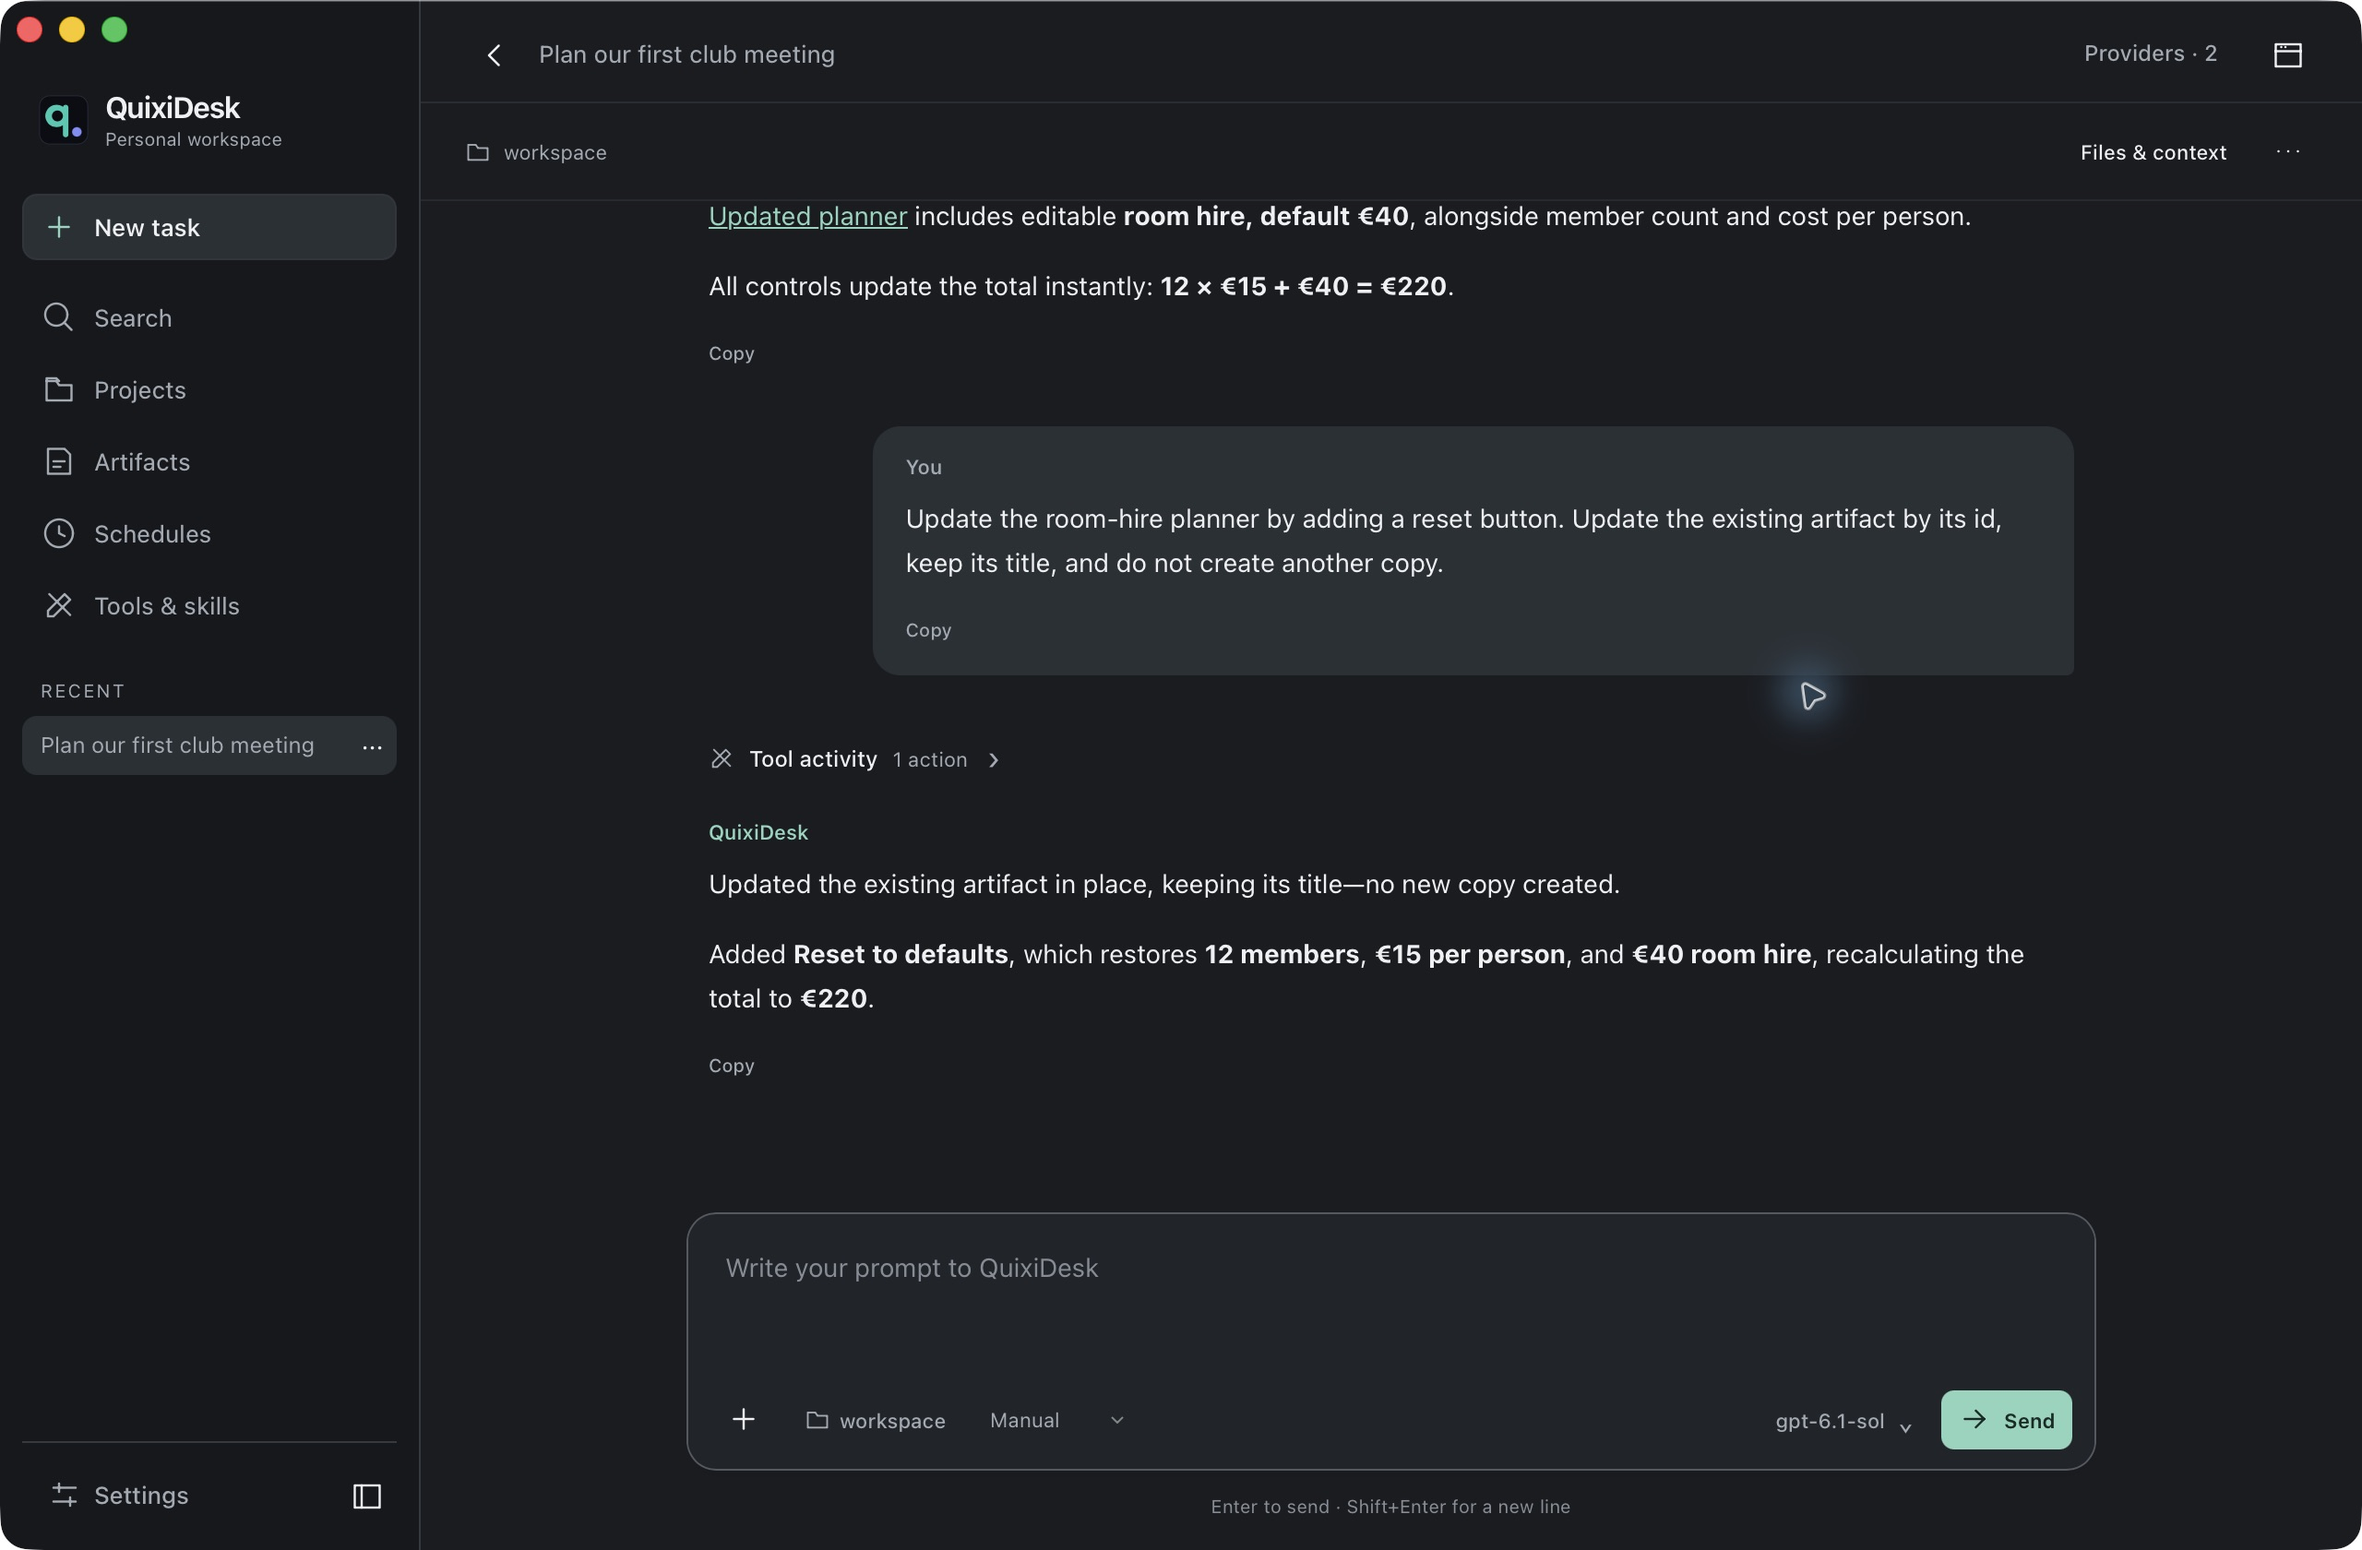
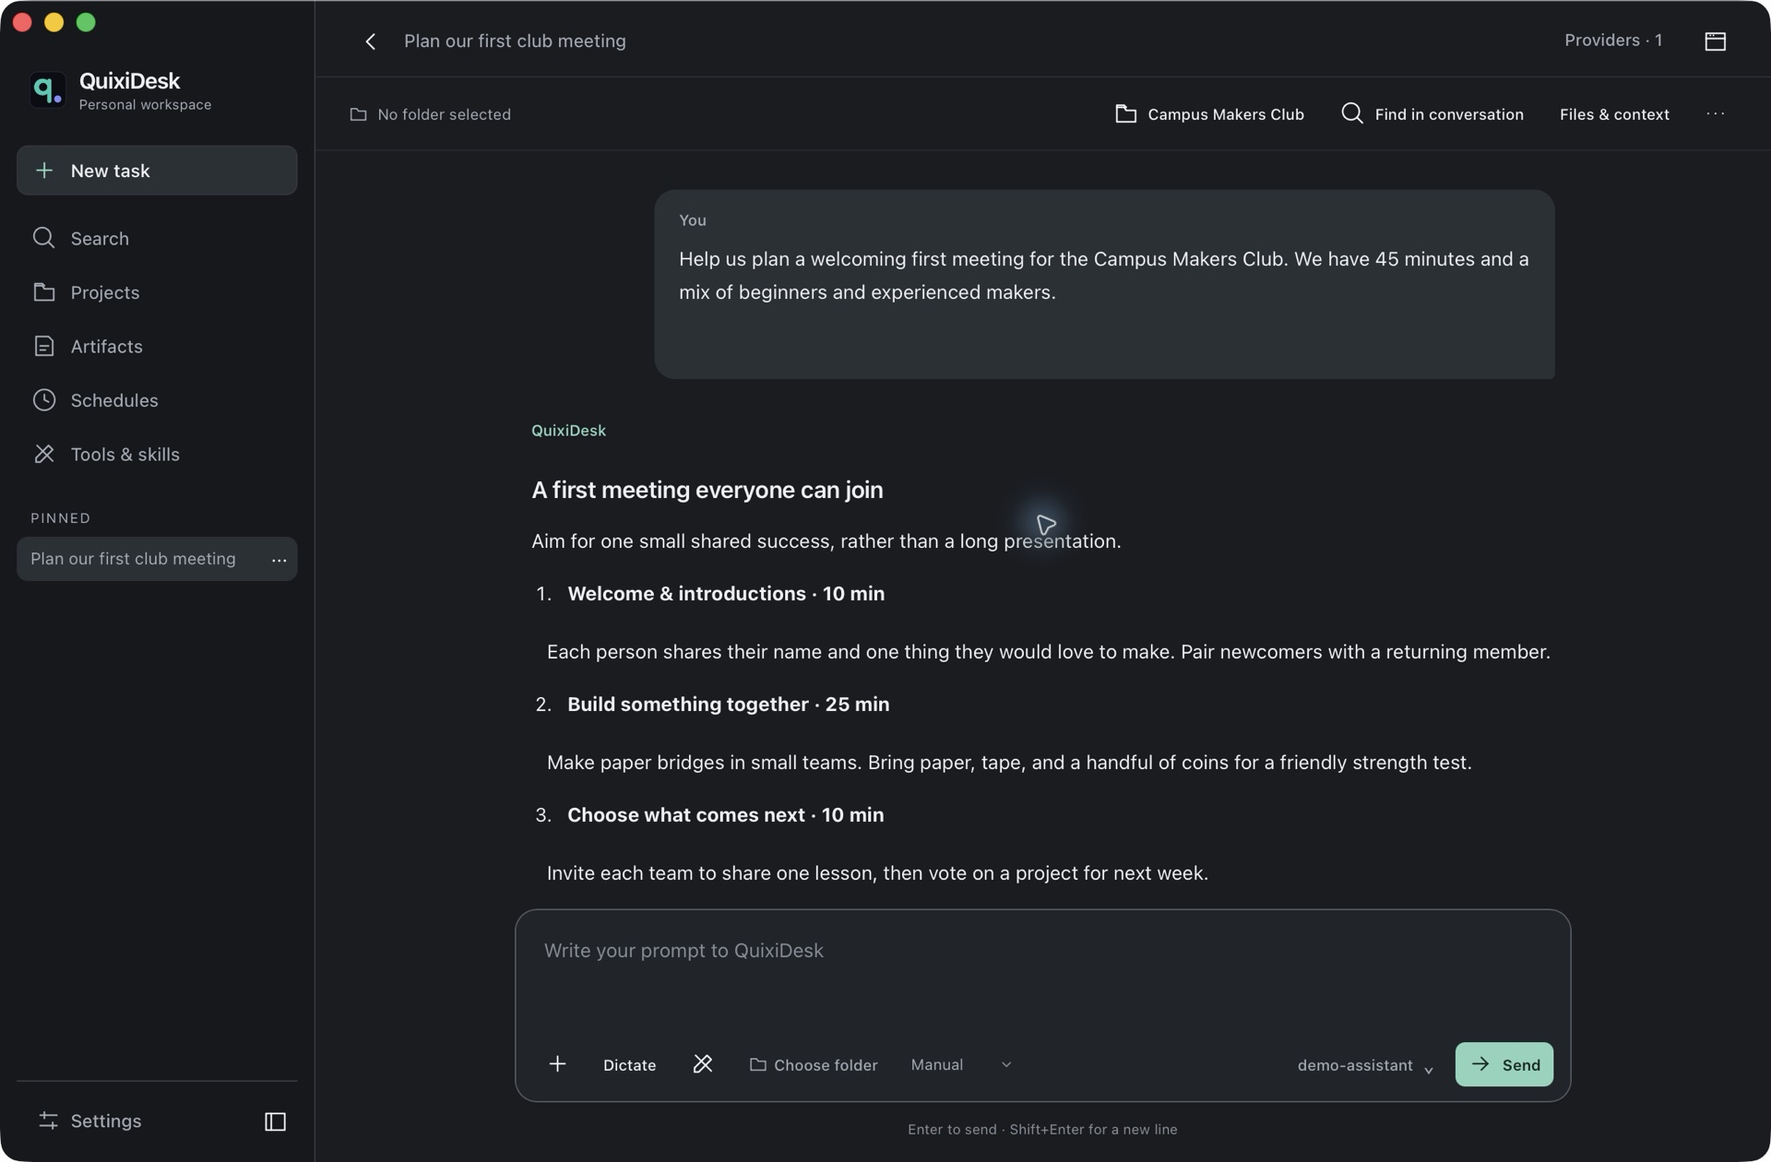
Refresh README workflows, platform support, and app screenshots

diff --git a/README.md b/README.md
@@ -4,7 +4,7 @@
 
 # QuixiDesk
 
-**A Native Rust Desktop Workspace for AI**
+**A Native Rust Desktop Workspace for AI — macOS, Windows & Linux**
 
 [![License: MIT](https://img.shields.io/badge/License-MIT-14B8A6.svg)](LICENSE)
 [![Built with Rust](https://img.shields.io/badge/Built%20with-Rust-0F172A?logo=rust)](Cargo.toml)
@@ -14,11 +14,11 @@
 
 ---
 
-**QuixiDesk** is a native Rust (`tao` + `wry`) desktop workspace with **pluggable LLM providers**, **built-in MCP tools**, and a **unified task/chat workspace**. Its native host runs without an Electron or Node.js application runtime.
+**QuixiDesk** is a native Rust (`tao` + `wry`) desktop workspace for **macOS, Windows, and Linux**, with **pluggable LLM providers**, **built-in MCP tools**, and a **unified task/chat workspace**. Its native host runs without an Electron or Node.js application runtime.
 
 ## Screenshots
 
-Current macOS interface, shown with a sample club-planning workspace.
+QuixiDesk 3.6556.9 on macOS, captured from the running app with an isolated demo profile. The fictional Campus Makers Club conversation and model catalog are sample data.
 
 ### Start a task
 
@@ -26,11 +26,19 @@ Current macOS interface, shown with a sample club-planning workspace.
 
 ### Work through a conversation
 
-![QuixiDesk conversation showing compact tool activity and an updated interactive meeting planner](docs/screenshots/quixidesk-conversation.jpg)
+![QuixiDesk conversation with a sample three-part club meeting agenda and project context](docs/screenshots/quixidesk-conversation.jpg)
 
 ### Choose a model
 
-![QuixiDesk model picker in light theme, searching OpenRouter's advertised models](docs/screenshots/quixidesk-models.jpg)
+![QuixiDesk model picker in light theme, with a sample custom-provider catalog, model search, and an option to add unadvertised models](docs/screenshots/quixidesk-models.jpg)
+
+### Keep project context together
+
+![Campus Makers Club project page with its conversation, shared instructions, folder controls, and linked schedule](docs/screenshots/quixidesk-projects.jpg)
+
+### Schedule recurring work
+
+![Weekly schedule editor with instructions, Wednesday afternoon timing, upcoming runs, and project context and permissions](docs/screenshots/quixidesk-schedules.jpg)
 
 ---
 
@@ -54,11 +62,23 @@ The native runtime development and analysis benefited from **[REA](https://githu
 
 Select a workspace folder before sending a file task. **Manual** allows directory listings and file reads, then pauses for approval before changes or commands. **Allow once** approves the displayed action; **Allow file edits** permits edits in that conversation while commands continue to ask. **Auto** permits tool actions without individual approval. Approving an action resumes the current request.
 
-In a project, **Add folder** opens the native folder chooser. **Enter path** also accepts home-folder shortcuts such as `~/Projects/my-project`, paths with spaces, and quoted paths copied from your file manager.
+**Projects** bring instructions, folders, conversations, and related artifacts and schedules together on one page. Tasks started from a project inherit its instructions and selected folder; personal and project drafts stay separate. A conversation without a selected folder has no workspace file tools—choose a folder when it needs to read or change local files.
+
+In a project, **Manage folders → Add folder** opens the native folder chooser on macOS. **Enter path** also accepts home-folder shortcuts such as `~/Projects/my-project`, paths with spaces, and quoted paths copied from your file manager.
+
+**Attachments** support PNG, JPEG, GIF, WebP, and UTF-8 text files: up to 8 files per message, 5 MiB per image, 1 MiB per text file, and 20 MiB combined. Images require a vision-capable model. Loading and failed attachments remain visible; fix or remove failures before sending. PDF and Office document ingestion is not supported. Unsent attachments are held in memory and do not survive an app restart.
+
+**Edit** and **Retry** create a new conversation branch, preserving the original transcript and a link back to it. Stop an active task before branching.
 
 Tool calls and their results appear together in a collapsible activity group. **Stop** cancels pending approvals and preserves any answer text already received. Follow-up requests retain earlier tool results, and artifact revisions can update the existing preview without changing its link.
 
-Use **Find in conversation** (Cmd/Ctrl+F) to highlight matches and move through them with Enter/Shift+Enter or Cmd/Ctrl+G. Screenshot tool results appear as images and are forwarded to vision-capable models through the OpenAI-compatible and OpenAI OAuth tool paths. Fresh screenshot requests capture fresh observations.
+Use **Search** to find conversation titles and messages, project names and instructions, artifact metadata, and schedule names and prompts. Filter by category or include archived conversations. Within a conversation, **Find in conversation** (Cmd/Ctrl+F) highlights matches; Enter/Shift+Enter or Cmd/Ctrl+G moves between them. Screenshot tool results appear as images and are forwarded to vision-capable models through the OpenAI-compatible and OpenAI OAuth tool paths. Fresh screenshot requests capture fresh observations.
+
+**Artifacts** has a searchable, sortable gallery with pinning, preview and source views, duplication, and revision restoration. **Export HTML** saves a local file without overwriting an existing filename; **Continue in chat** lets you refine the artifact. Artifacts are stored locally; cloud publishing and synchronization are not provided.
+
+In **Tools & skills**, use **Add connection** to configure an MCP server through a form, or **Advanced JSON** for direct configuration. Connections can be edited, enabled, disabled, and removed individually. Search installed skills, read their instructions, or choose **Try in a new task** to prepare a prompt with the skill files attached for review before sending.
+
+**Settings → Application & audio** shows the installed version, storage status, keyboard shortcuts, and available audio features. Read-aloud and in-app dictation depend on the system webview's speech services; dictation may require microphone permission and an online service. When in-app recognition is unavailable, use your operating system's dictation in the prompt.
 
 **Stop** terminates running Bash command trees. Commands have a 120-second default timeout; a task can request up to one hour. Manual and Allow file edits modes ask before file access outside the selected workspace, including symlink targets. Auto mode grants broader access; these approvals are not an operating-system sandbox.
 
@@ -66,7 +86,7 @@ Long conversations automatically summarize older provider context near the model
 
 **Subagents** handle bounded parts of a request with their own saved activity. The parent supplies an explicit assignment and receives a short result; child tool chatter stays in the expandable **Subagents** panel. Children inspect files by default. Delegated edits and commands use the conversation's current permissions, and approval cards identify the requesting child. **Stop** cancels the parent and its children. Interrupted children remain visible after restart and are never automatically replayed. See [Subagent design](docs/subagents.md) for limits and provider behavior.
 
-**Schedules** execute while QuixiDesk is open, in the computer’s local time zone. Five-field cron accepts numeric or named weekdays. The app reports missed times and skips catch-up runs; it also skips overlapping runs of the same schedule. **Run now** starts a conversation immediately, and **View last run** opens it. Existing definitions from older builds need to be enabled or saved once to activate automatic dispatch. Manual-mode runs still wait for tool approvals.
+**Schedules** offer daily, weekday, weekly, hourly, and custom five-field cron schedules, with next-run previews in the computer’s local time zone. **Context & permissions** selects the project, folder, model, and approval mode. Automatic runs require QuixiDesk to remain open. The app reports missed times and skips catch-up runs; it also skips overlapping runs of the same schedule. **Run now** starts a conversation immediately without moving the next scheduled occurrence, and **View last run** opens it. Run states distinguish work in progress, pending approval, completion, failure, and interruption. Existing definitions from older builds need to be enabled or saved once to activate automatic dispatch. Manual-mode runs still wait for tool approvals.
 
 Provider credentials are encrypted with AES-256-GCM; the encryption key is held in macOS Keychain, Windows Credential Manager, or the Linux Secret Service. Linux needs an unlocked desktop secret service (such as GNOME Keyring or KWallet with Secret Service support). Existing plaintext provider settings migrate on successful unlock/save. If unlocking or saving fails, the existing file is preserved and the app reports the error. Disposable test profiles use a separate local test key and must not contain production credentials.
 
@@ -205,7 +225,7 @@ There is no MSI or Windows signing/installer workflow yet. Keep the resources di
 
 Native CoreGraphics/AppleScript computer-use integration is macOS-specific. Linux and Windows builds do not currently provide the same native computer-use and folder-picker capabilities. Building the cross-platform shell does not imply full native-feature parity.
 
-The engine opens the source checkout as its default workspace in development. Set `QUIXI_WORKSPACE` to an explicit folder to override it. `QUIXI_RESOURCES_DIR` overrides resource discovery. Normal app data is stored under the OS user's `.quixi` directory; test profiles below use a separate location. Configure a provider in the app after launch; no API credential is required to compile or run the tests.
+`QUIXI_WORKSPACE` overrides the engine's development workspace default, which otherwise uses the source checkout. This does not grant folderless conversations access to that directory: choose a folder in the composer or start a task from a project with a configured folder. `QUIXI_RESOURCES_DIR` overrides resource discovery. Normal app data is stored under the OS user's `.quixi` directory; test profiles below use a separate location. Configure a provider in the app after launch; no API credential is required to compile or run the tests.
 
 ### Tests and disposable account profiles
 
@@ -245,13 +265,13 @@ The original interface has a separate development-only Node.js test suite. Node.
 
 ```sh
 npm ci --prefix tests/ui
-npm test --prefix tests/ui
+node --test tests/ui/*.test.cjs
 python3 scripts/audit-product-assets.py
 ```
 
-The asset audit rejects imported branding and private font bundles and checks the integrity of redistributable artifact libraries and their licenses. The UI tests cover drafts, streaming, tool failures, project context, sandbox attributes, and concurrent updates; they do not replace native desktop or browser security testing.
+The asset audit rejects imported branding and private font bundles and checks the integrity of redistributable artifact libraries and their licenses. The UI tests cover drafts, attachments, conversation branches, streaming, tool failures, project context, search, schedules, MCP connection forms, sandbox attributes, and concurrent updates; they do not replace native desktop or browser security testing.
 
-Schedules can be saved and run manually; automatic dispatch is not currently implemented. The replacement interface currently uses English. Native desktop validation and the full E2E catalog remain separate from the automated regression checks.
+Native desktop validation and the full E2E catalog remain separate from the automated regression checks.
 
 On Linux, after a release build, run real WebKit frame isolation and navigation checks with `python3 scripts/test-linux-ui.py` (requires `xvfb-run`, `dbus-run-session`, and Python 3). It starts only a local fixture server and disposable profile and records its JSON results in a temporary directory. `--output` and `--port` select an evidence directory and unused automation port.
 
